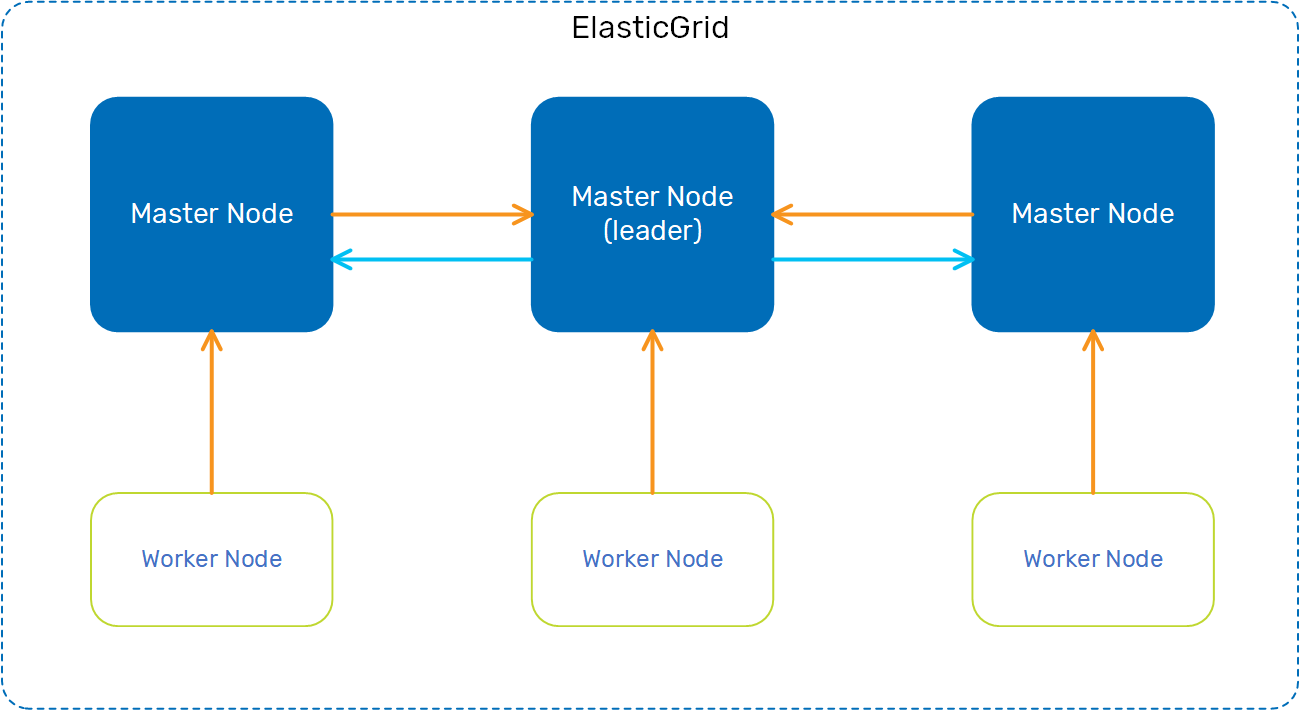
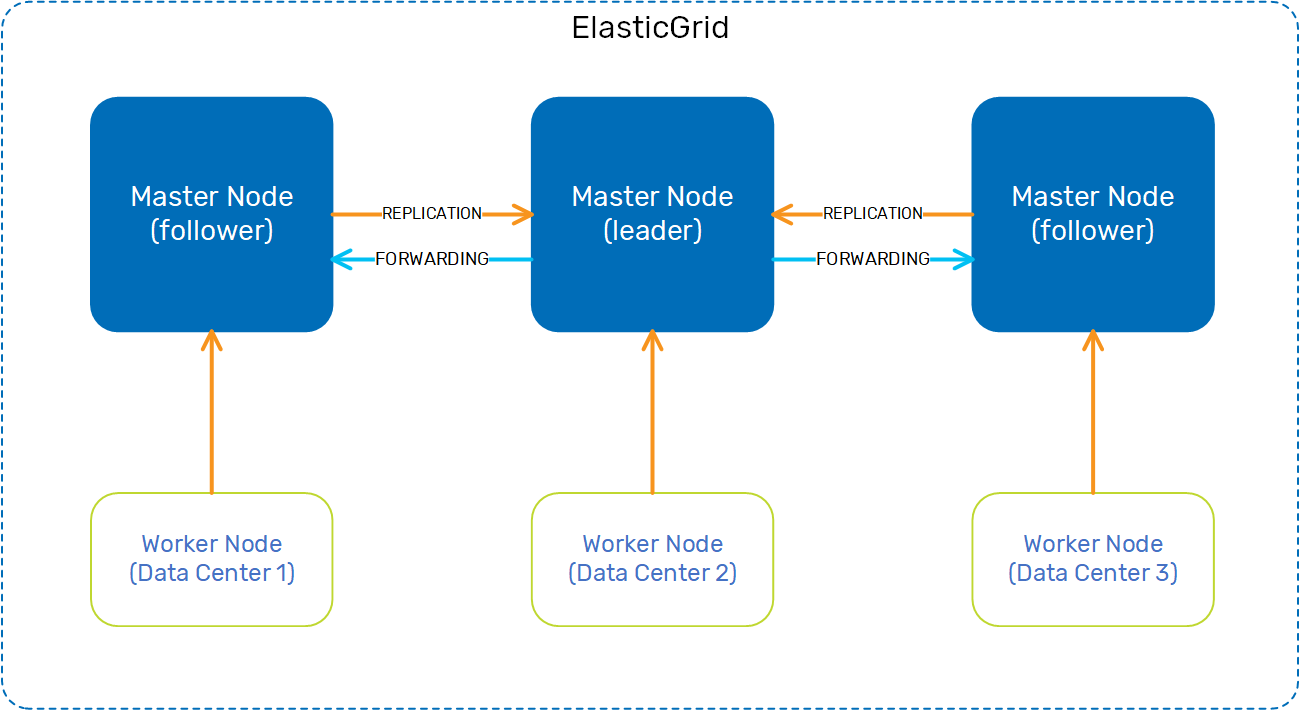
DOC-766 implemented feedback on elasticgrid overview topic - diagrams

diff --git a/site-flare/Content/orchestration/elastigrid-overview.html b/site-flare/Content/orchestration/elastigrid-overview.html
@@ -44,14 +44,16 @@
         <h1>Architecture</h1>
         <p>ElasticGrid has a master-worker architecture. The master is the brain of the cluster and manages all the jobs and workers, along with scheduling and tasks. There can be multiple masters in a cluster. </p>
         <p>Workers communicate with the masters using Remote Procedure Calls (RPC). When a worker registers with a master, it provides information about itself; available resources, attributes, and installed drivers. The master can then use this information to decide how to schedule and allocate tasks among the workers.</p>
+        <h2>Single Region Topology</h2>
         <p>This is how the master-worker relationship may look in a single-region topology.</p>
         <div class="tc-align-center">
             <p>
                 <img src="../Resources/Static/attachment_files/gigaops-stack/single-region.png" class="tc-picture50" />
             </p>
         </div>
-        <p>In this topology, one master is the leader, and any other masters are followers. The master nodes accept jobs, manage the worker nodes, and allocate tasks among them. The leader replicates data to the followers, and the followers forward updates to the leader.</p>
-        <p>Additionally, ElasticGrid supports multi-region connectivity so you can replicate data between regions and cloud-based clusters. This is how the master nodes connect to each other in a multi-region topology:</p>
+        <p>In this topology, one master is the leader, and any other masters are followers. The master nodes accept jobs, manage the worker nodes, and allocate tasks among them. The leader replicates data to the followers, and the followers forward updates to the leader. The worker nodes are data centers, and there may be more than one data center registered with a master node.</p>
+        <h2>Multi-Region Topology</h2>
+        <p>ElasticGrid supports multi-region connectivity so you can replicate data between regions and cloud-based clusters. This is how the master nodes connect to each other in a multi-region topology.</p>
         <div class="tc-align-center">
             <p>
                 <img src="../Resources/Static/attachment_files/gigaops-stack/multi-region.png" class="tc-picture50" />
@@ -59,7 +61,7 @@
         </div>
         <p>In this topology, the regions function independently from each other, and have a loose coupling that enables submitting jobs or queries between the regions. The master node serving as the leader processes all the queries and transactions. While all the master nodes in a region make their scheduling decisions in parallel (ElasticGrid is optimistically concurrent), the leader coordinates all the activity to ensure the correct load balancing across the worker nodes.</p>
         <h1>Deploying <MadCap:variable name="General.ProductNameXAP" /> on ElastiGrid</h1>
-        <p>The gsctl utility is used to create the ElastiGrid cluster and deploy <MadCap:variable name="General.ProductNameXAP" />, much like using Helm to install <MadCap:variable name="General.ProductNameXAP" /> on Kubernetes. For information on how to deploy <MadCap:variable name="General.ProductNameXAP" /> on ElastiGrid, see xxx.</p>
+        <p>The gsctl utility is used to create the ElastiGrid cluster and deploy <MadCap:variable name="General.ProductNameXAP" />, much like using Helm to install <MadCap:variable name="General.ProductNameXAP" /> on Kubernetes. For information on how to deploy <MadCap:variable name="General.ProductNameXAP" /> on ElastiGrid, see <MadCap:xref href="gsctl-create-gs-cluster-cloud.html">Creating a [%=General.ProductNameXAP%] Cluster in the Cloud</MadCap:xref>.</p>
         <p>&#160;</p>
         <p>&#160;</p>
         <p>&#160;</p>
